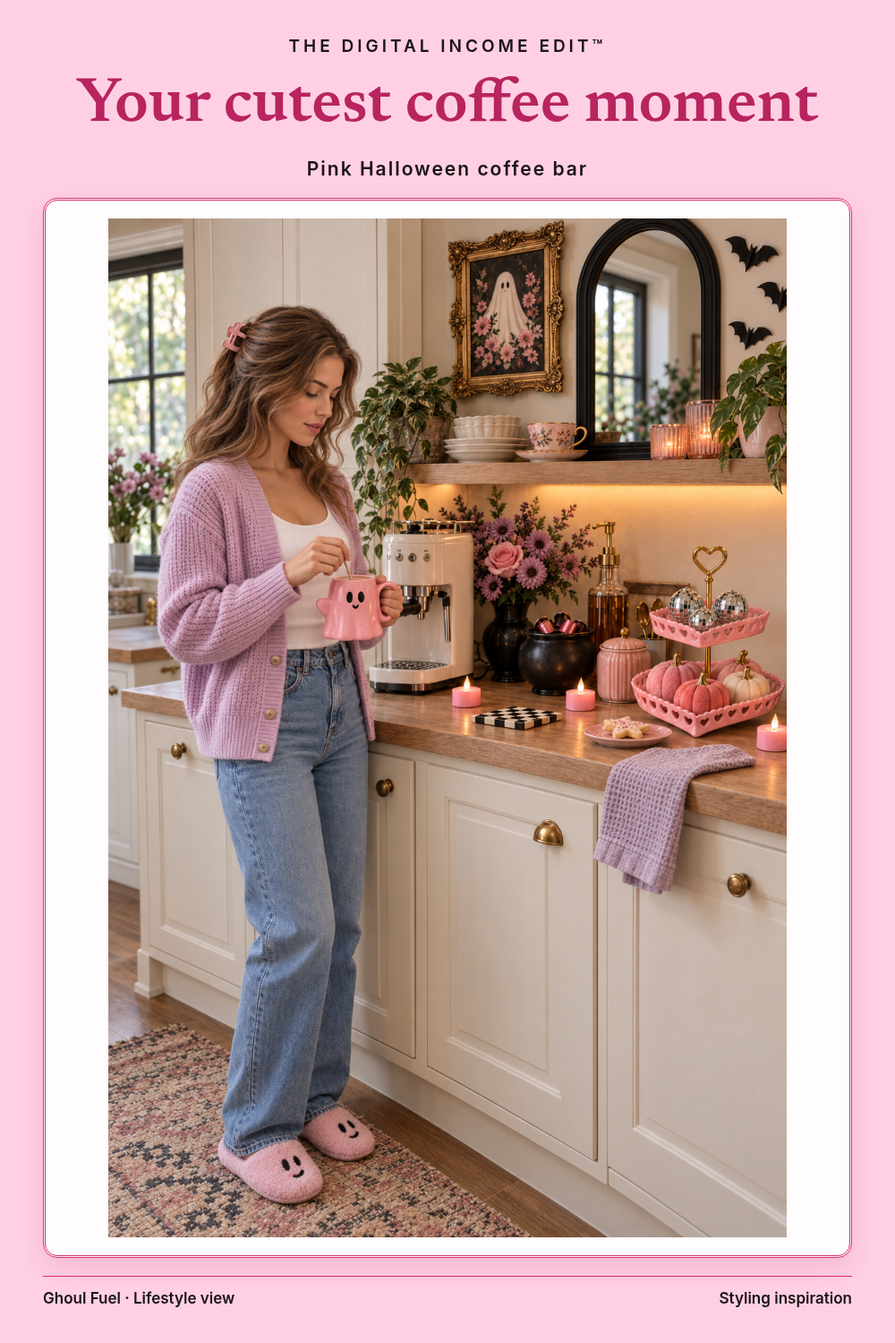
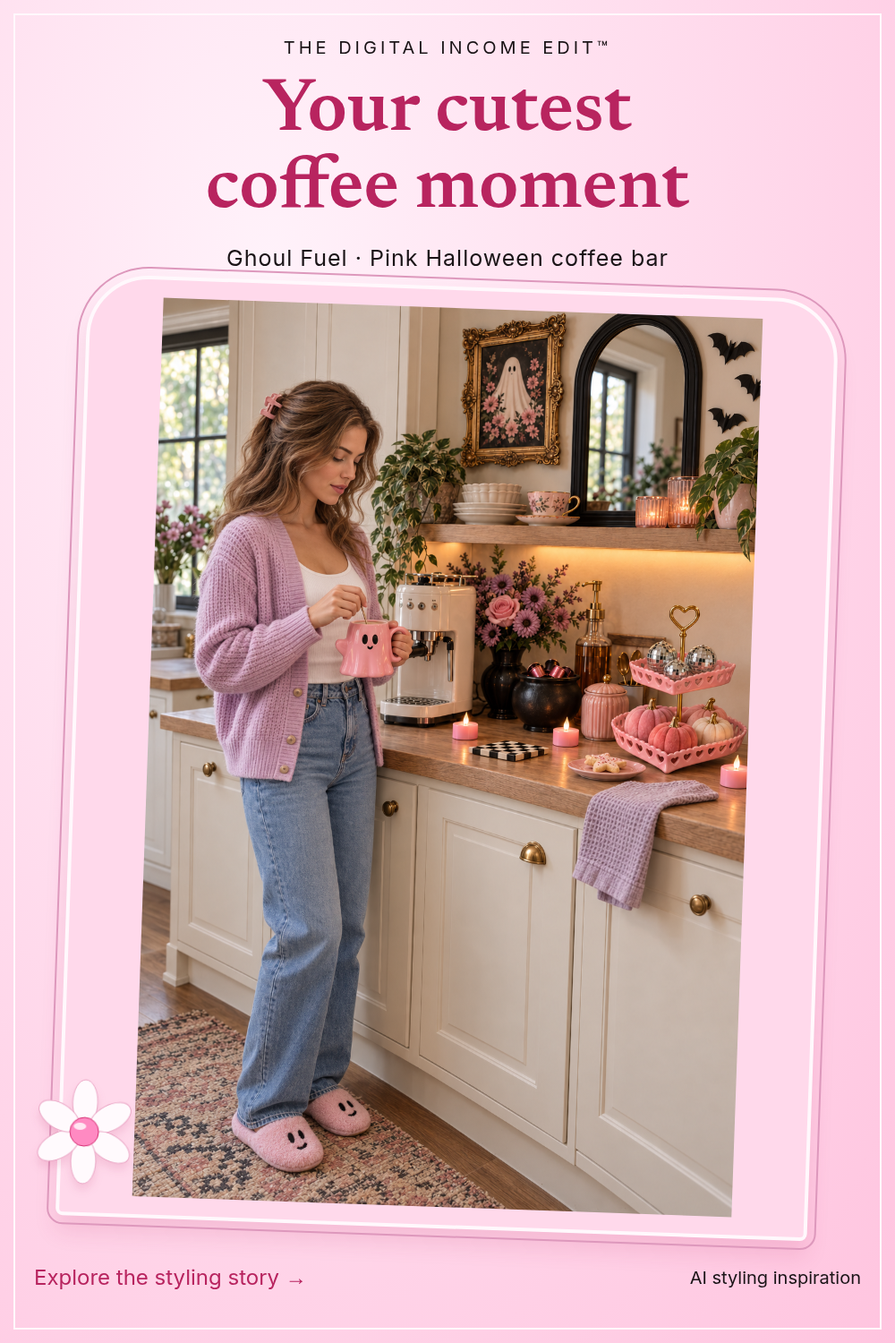
Add boutique WYS masthead and show complete native social previews

diff --git a/src/styles/wys-reference.css b/src/styles/wys-reference.css
@@ -38,3 +38,37 @@
 /* Actual output shelves remain readable: three files per row, grouped by format. */
 .wx-packages{background:linear-gradient(120deg,#f0e1fb,#ffe5f1)}.wx-package:not(.wx-package-tour){background:#fff8fc;border:5px double #e1a0c0;outline:0;border-radius:5px 36px 5px 5px;padding:30px;box-shadow:0 12px 30px #b8245f15}.wx-package-lav:not(.wx-package-tour){border-color:#bd9cd8;border-radius:36px 5px 5px 5px}.wx-contact{grid-template-columns:repeat(3,minmax(0,1fr));gap:24px;max-width:940px;margin-inline:auto}.wx-mini{padding:12px 12px 0;border:1px solid #d99abb!important;box-shadow:0 7px 18px #b8245f12}.wx-mini img{border:4px solid #fff8fc}.wx-mini figcaption{font-size:14px;padding:15px 2px}.wx-mini figcaption b{font-size:11px;letter-spacing:.07em;margin-bottom:4px}.wb-photo-file{border-radius:70px 70px 4px 4px!important}.wb-pin-file{transform:none;border:5px double #c59fda!important;padding:8px 8px 0}.wb-slide-file{transform:none;border-radius:4px 28px 4px 4px!important}.wx-tabs button{font-size:13px;padding:12px 18px}.wx-package-heading p,.wx-output-label p{font-size:16px;line-height:1.7}.wx-package-status{font-size:12px}.wx-paper-strip p{font-size:16px}.wx-mini.mat-1{border-color:#bf9bd9!important}.wx-package:not(.wx-package-tour) .wx-folder-tab{top:-32px;left:-5px;font-size:11px}
 @media(max-width:700px){.wx-contact{gap:14px 8px}.wx-mini{padding:5px 5px 0}.wx-mini figcaption{font-size:11px;padding:10px 0}.wx-mini figcaption b{font-size:8px;letter-spacing:0}.wx-mini img{border-width:2px}.wb-pin-file{padding:3px 3px 0;border-width:3px!important}.wb-photo-file{border-radius:35px 35px 4px 4px!important}.wx-package:not(.wx-package-tour){padding:22px 12px;border-width:4px}.wx-tabs button{font-size:12px;padding:10px 8px}.wx-package:not(.wx-package-tour) .wx-folder-tab{font-size:10px;left:-4px}.wx-package-heading p,.wx-output-label p{font-size:15px}}
+
+/* Clearly operable illustrated kit covers, with their purpose visible before opening. */
+.wx-kit-grid{align-items:start}.wx-guide,.wx-guide.guide-1,.wx-guide.guide-2{border:1px solid #cc8eb3;border-radius:5px 30px 5px 5px!important;border-left:1px solid #cc8eb3;background:#fff7fc;box-shadow:0 9px 24px #b8245f15}.wx-guide.guide-1{background:#f9f3ff;border-color:#b797d3;border-radius:30px 5px 5px 5px!important}.wx-guide.guide-2{border:5px double #d696b8;background:#fff7fc;border-radius:5px!important}.wx-guide summary{display:flex;flex-direction:column;padding:18px;min-height:0;gap:0}.wz-guide-visual{position:relative;width:100%;display:flex;flex-direction:column;align-items:center;padding:20px 10px 12px;background:repeating-linear-gradient(90deg,#ffe2f0 0,#ffe2f0 12px,#fff0f7 12px,#fff0f7 24px);border:1px solid #e6aecb;margin-bottom:22px}.guide-1 .wz-guide-visual{background:repeating-linear-gradient(90deg,#e8d6f7 0,#e8d6f7 12px,#f3e8fc 12px,#f3e8fc 24px);border-color:#c8ace0}.guide-2 .wz-guide-visual{background:#ffe6f2;border:4px double #d99abb}.wx-guide .wb-guide-image{position:static;width:180px;height:auto;max-width:82%;border:6px solid #fffafd;outline:1px solid #d397b8;object-fit:contain;box-shadow:0 8px 16px #b8245f20;transform:rotate(-3deg)}.guide-1 .wb-guide-image{transform:rotate(3deg);outline-color:#b897d1}.guide-2 .wb-guide-image{transform:none}.wx-guide .wx-guide-number{position:absolute;z-index:1;left:10px;top:10px;display:grid;place-items:center;width:42px;height:42px;border-radius:50%;background:#fff7fc;border:3px double #d48bb2;color:#b8245f;font:700 12px/1 Inter,sans-serif;padding:0;letter-spacing:0;box-shadow:0 4px 8px #b8245f12}.wz-guide-image-note{font:400 10px/1.5 Inter,sans-serif;color:#1a1417;margin-top:15px;text-align:center}.wx-guide-title{font:600 27px/1.2 Newsreader,Georgia,serif;margin:0 0 14px}.wz-guide-benefit{display:block;font:400 15px/1.7 Inter,sans-serif;color:#1a1417;margin-bottom:22px;min-height:102px}.wx-guide .wx-guide-tag{display:flex;align-items:center;justify-content:space-between;gap:14px;min-height:48px;padding:12px 16px;margin:0;background:#b8245f;color:white;border:0;border-radius:99px;font:600 13px/1.5 Inter,sans-serif;box-shadow:0 5px 12px #b8245f18}.wx-guide-tag b{font:400 24px/1 Inter,sans-serif}.wz-guide-close{display:none}.wx-guide[open] .wz-guide-open{display:none}.wx-guide[open] .wz-guide-close{display:inline}.wx-guide[open] .wx-guide-tag b{transform:rotate(45deg)}.wx-guide summary:hover .wx-guide-tag{background:#a71d55}.wx-guide summary:focus-visible{outline:3px solid #872049;outline-offset:5px}.wx-guide>div{padding-top:22px;font-size:16px}.wz-kit-note{text-align:center;font:400 13px/1.7 Inter,sans-serif;margin:25px 0 0!important;color:#1a1417}
+@media(max-width:700px){.wx-guide summary{padding:18px}.wx-guide-title{font-size:26px}.wz-guide-benefit{min-height:0;font-size:16px}.wz-guide-visual{padding-top:20px}.wx-guide .wb-guide-image{width:180px;max-width:78%}.wx-guide .wx-guide-tag{font-size:14px}}
+
+/* A bound look-planning notebook, distinct from the output galleries and guide covers. */
+.wx-worksheet{grid-template-columns:minmax(0,.7fr) minmax(0,1fr);gap:40px;align-items:center}.wx-worksheet>.wys-photo{transform:rotate(-3deg);border-radius:5px;box-shadow:0 14px 28px #b8245f20}.wx-worksheet-paper{position:relative;background:linear-gradient(100deg,#fffbfd,#fff3fa);border:1px solid #d894b9;border-left:10px solid #d69cbe;border-radius:7px 28px 7px 7px;box-shadow:7px 8px 0 #e9d7f5,0 18px 30px #b8245f16;padding:34px 26px 25px}.wx-worksheet-paper:after{content:'';position:absolute;inset:9px;pointer-events:none;border:1px solid #f2c8dd;border-radius:3px 20px 3px 3px}.wz-notebook-binding{position:absolute;left:24px;right:24px;top:-14px;display:flex;justify-content:space-between;pointer-events:none}.wz-notebook-binding span{width:13px;height:30px;border-radius:7px;background:linear-gradient(90deg,#b799b0,#fff8fc 45%,#d8b4cd 65%,#99718e);border:1px solid #b591aa;box-shadow:2px 3px 3px #87204920}.wz-brief-heading{display:flex;align-items:center;justify-content:space-between;gap:15px;padding-bottom:22px;border-bottom:3px double #dda4c3;margin-bottom:20px}.wx-worksheet .wx-file-label{margin:0 0 13px;padding:7px 12px;background:#ffd2e6;border:1px solid #dc94ba;border-radius:99px;font-size:10px}.wz-brief-heading h3{font:600 29px/1.2 Newsreader,Georgia,serif;margin:0}.wz-brief-flower{width:65px;height:65px;flex-shrink:0}.wx-worksheet dl{display:grid;grid-template-columns:repeat(2,minmax(0,1fr));gap:18px;counter-reset:brief}.wx-worksheet dl>div{position:relative;border:1px solid #e7b3ce;border-radius:3px 16px 3px 3px;padding:19px 15px 15px;background:#ffe6f2;counter-increment:brief}.wx-worksheet dl>div:nth-child(even){background:#f1e7fc;border-color:#d0b6e7;border-radius:16px 3px 3px 3px}.wx-worksheet dt{display:flex;gap:8px;align-items:center;font:600 11px/1.5 Inter,sans-serif;letter-spacing:.02em;color:#872049}.wx-worksheet dt:before{content:counter(brief,decimal-leading-zero);display:grid;place-items:center;flex-shrink:0;width:26px;height:26px;border-radius:50%;background:#fff9fd;border:1px solid #e0a4c3;font:700 9px/1 Inter,sans-serif}.wx-worksheet dd{font:400 15px/1.7 Inter,sans-serif;margin:12px 0 0;color:#1a1417}.wx-checkpoint{position:relative;margin-top:22px;border:4px double #ba9bd5;background:#f0e2fc;border-radius:5px 22px 5px 5px;padding:20px}.wx-checkpoint b{font:600 16px/1.5 Inter,sans-serif;color:#872049}.wx-checkpoint p{font-size:15px;line-height:1.7}
+@media(max-width:700px){.wx-worksheet{grid-template-columns:1fr;gap:38px}.wx-worksheet>.wys-photo{max-width:290px;transform:rotate(-3deg)}.wx-worksheet-paper{padding:32px 18px 22px;border-left-width:7px;box-shadow:5px 6px 0 #e9d7f5,0 14px 24px #b8245f12;margin-right:5px}.wx-worksheet dl{grid-template-columns:1fr;gap:14px}.wx-worksheet dl>div{padding:16px}.wx-worksheet dd{font-size:16px}.wz-brief-heading h3{font-size:26px}.wz-brief-flower{width:50px;height:50px}.wx-worksheet .wx-file-label{font-size:9px;padding:7px 10px}.wx-checkpoint{padding:18px}.wx-checkpoint p{font-size:16px}}
+
+.wx-tabs{gap:8px}.wx-tabs button{border:1px solid #d795b8;background:#ffe5f1;border-radius:5px 16px 5px 5px;color:#872049;font-size:13px}.wx-tabs button[aria-pressed=true]{background:#b8245f;color:#fff;border-color:#b8245f}.wx-tabs button:hover{box-shadow:0 4px 10px #b8245f15}.wx-tabs button[aria-pressed=true]:hover{background:#a71d55}.wx-tabs button:focus-visible{outline:3px solid #872049;outline-offset:4px}@media(max-width:700px){.wx-tabs button{font-size:12px}}
+
+.wz-article-teaser blockquote{margin:18px 0 22px;padding:16px 20px;border-left:4px solid #d78cb0;background:#fff8fc;font:400 16px/1.75 Inter,sans-serif;color:#1a1417}.wz-article-teaser button.wys-text-link{display:flex;align-items:center;min-height:48px;padding:10px 0;background:transparent;border:0;color:#b8245f;font:600 14px/1.5 Inter,sans-serif;text-decoration:underline;text-underline-offset:4px;cursor:pointer}.wz-article-teaser h3{font-size:27px}.wx-package{scroll-margin-top:110px}
+/* A real carousel presentation: native swiping inside one recognisable post preview. */
+.wx-instagram{display:grid;grid-template-columns:minmax(0,430px) minmax(0,1fr);gap:30px;align-items:start;max-width:940px;margin:auto}.wz-instagram-post{min-width:0;border:8px solid #f7d5e8;outline:1px solid #d696ba;border-radius:22px;background:#fffafd;box-shadow:0 12px 25px #b8245f18;overflow:hidden}.wz-instagram-profile{display:flex;align-items:center;gap:10px;padding:16px 12px;border-bottom:1px solid #f0d6e4;font:600 12px/1.5 Inter,sans-serif;color:#1a1417}.wz-profile-mark{display:grid;place-items:center;flex-shrink:0;width:42px;height:42px;background:linear-gradient(135deg,#f1dcfb,#ffb5d7);border:3px double #bd78a4;border-radius:50%;font:600 10px/1 Inter,sans-serif;color:#872049}.wz-instagram-profile div{min-width:0}.wz-instagram-profile div span{display:block;font-size:11px;font-weight:400;margin-top:3px}.wz-post-menu{margin-left:auto;letter-spacing:2px}.wx-instagram .wx-carousel{padding:0;gap:0;scroll-padding:0;max-width:100%;background:#fff4fa}.wx-instagram .wx-carousel .wx-graphic{flex:0 0 100%;padding:0;border:0;border-radius:0;background:transparent;box-shadow:none}.wx-instagram .wx-graphic>img{border:0;outline:0;width:100%;height:auto}.wx-instagram .wx-carousel figcaption{padding:10px 14px;font-size:12px;background:#fffafd}.wz-instagram-icons{display:flex;align-items:center;gap:15px;padding:12px 16px}.wz-instagram-icons svg{width:23px;height:23px;fill:none;stroke:#1a1417;stroke-width:1.7;stroke-linejoin:round}.wz-instagram-icons .wz-bookmark{margin-left:auto}.wx-instagram .wx-slide-controls{display:flex;gap:12px;margin:0;padding:0 12px 16px}.wx-instagram .wx-slide-controls button{padding:9px 13px;font-size:12px;border-radius:99px;min-height:48px}.wx-instagram .wx-caption{margin:0;padding:24px;background:#f4e9fc;border:5px double #c3a0dc;border-radius:5px 28px 5px 5px}.wx-instagram .wx-caption h4{font:600 28px/1.3 Newsreader,Georgia,serif;margin:14px 0}.wx-instagram .wx-caption p{font:400 16px/1.75 Inter,sans-serif;margin:0 0 22px;color:#1a1417}.wz-slide-downloads{display:flex;flex-direction:column;margin-top:22px;border-top:1px solid #cdb0e0;padding-top:20px}.wz-slide-downloads a{display:flex;align-items:center;min-height:48px;color:#b8245f;font:600 14px/1.5 Inter,sans-serif;text-decoration:underline;text-underline-offset:4px}.wz-overview-instagram{padding:28px 0;margin-top:30px;border-top:3px double #dfa1c1}.wz-overview-instagram>h3{margin-bottom:24px}.wz-pin-download{font-size:13px;padding:12px 16px;margin:15px 0}.wz-live-article{display:flex;align-items:center;min-height:48px;margin-top:12px}.wx-contact{margin-bottom:28px}
+@media(max-width:700px){.wx-instagram{grid-template-columns:1fr;gap:24px}.wz-instagram-post{max-width:430px;width:100%;margin:auto;border-width:6px}.wx-instagram .wx-caption{padding:22px 16px}.wx-instagram .wx-slide-controls{gap:10px;justify-content:space-between}.wx-instagram .wx-slide-controls button{padding:9px 12px;font-size:11px}.wx-instagram .wx-caption h4{font-size:26px}.wz-instagram-profile{padding:14px 10px;font-size:11px}.wx-instagram .wx-caption .wys-button{font-size:13px;width:100%;text-align:center}}
+
+.wx-mini figcaption h4{font:600 17px/1.5 Inter,sans-serif;margin:12px 0}.wx-mini figcaption p{font:400 14px/1.75 Inter,sans-serif;margin:12px 0;color:#1a1417}.wx-mini figcaption .wys-label{font-size:10px}.wx-mini .wz-pin-download{font-size:12px;padding:10px 13px}.wx-mini .wz-live-article{font-size:12px}@media(max-width:700px){.wx-contact{grid-template-columns:1fr}.wx-mini{max-width:430px;width:100%;margin:auto;padding:12px 12px 0}.wx-mini figcaption{font-size:14px;padding:15px 3px}.wx-mini figcaption b{font-size:11px}.wx-mini figcaption p{font-size:16px}.wx-mini figcaption h4{font-size:17px}.wx-instagram .wx-slide-controls{display:grid;grid-template-columns:minmax(0,1fr) auto minmax(0,1fr);gap:7px;padding-inline:10px}.wx-instagram .wx-slide-controls button{min-width:0;padding:9px 8px}.wx-instagram [data-slide-count]{white-space:nowrap}}
+/* Pinterest detail-screen mockups show the graphic and actual posting copy together. */
+.wz-pinterest-set{display:grid;gap:32px}.wz-pinterest-mockup{min-width:0;background:#fff;border:8px solid #eddcf7;outline:1px solid #bd9bd7;border-radius:22px;box-shadow:0 12px 25px #b8245f15;overflow:hidden}.wz-pinterest-mockup:nth-child(even){border-color:#f8d8e8;outline-color:#d997b9}.wz-pinterest-brand{display:flex;align-items:center;gap:8px;padding:15px 18px;border-bottom:1px solid #eee4eb;font:600 14px/1.5 Inter,sans-serif;color:#1a1417}.wz-pinterest-brand>span:last-child{margin-left:auto;font-size:12px;font-weight:400}.wz-pinterest-mark{display:grid;place-items:center;width:25px;height:25px;border-radius:50%;background:#e60023;color:#fff;font:600 19px/1 Newsreader,Georgia,serif}.wz-pinterest-detail{display:grid;grid-template-columns:minmax(0,.9fr) minmax(0,1fr);align-items:start}.wz-pinterest-image{min-width:0;background:#fff3f9;padding:12px;border-right:1px solid #f0d7e3}.wz-pinterest-image img{display:block;width:100%;height:auto;box-shadow:0 5px 12px #b8245f12}.wz-pinterest-copy{min-width:0;padding:20px 24px;color:#1a1417}.wz-pinterest-toolbar{display:flex;align-items:center;justify-content:space-between;gap:18px;margin-bottom:24px}.wz-pinterest-icons{display:flex;align-items:center;gap:17px}.wz-pinterest-icons svg{width:23px;height:23px;fill:none;stroke:#1a1417;stroke-width:1.8;stroke-linejoin:round}.wz-pinterest-icons span{font:700 19px/1 Inter,sans-serif;letter-spacing:2px}.wz-pinterest-save{border-radius:99px;background:#e60023;color:#fff;font:600 15px/1.5 Inter,sans-serif;padding:13px 21px}.wz-pinterest-creator{display:flex;align-items:center;gap:9px;font:600 12px/1.5 Inter,sans-serif;margin-bottom:18px}.wz-pinterest-creator .wz-profile-mark{width:33px;height:33px;font-size:8px}.wz-pinterest-copy h4{font:600 23px/1.35 Inter,sans-serif!important;letter-spacing:0;margin:0 0 23px!important;color:#1a1417}.wz-pin-field{display:block;font:600 14px/1.5 Inter,sans-serif;margin:19px 0 9px}.wz-pinterest-copy p{font:400 15px/1.7 Inter,sans-serif!important;color:#1a1417;margin:0 0 18px}.wz-pin-destination{display:flex;flex-wrap:wrap;align-items:center;gap:7px;min-height:48px;padding:12px 16px;background:#fff0f8;border:1px solid #e3acc8;border-radius:99px;color:#b8245f;font:600 12px/1.5 Inter,sans-serif;overflow-wrap:anywhere}.wz-pin-destination>span:last-child{flex-basis:100%;font-weight:400}.wz-pinterest-copy .wys-button{margin-top:8px;font-size:12px;padding:12px 16px;max-width:100%}.wz-pinterest-comment{margin-top:24px;display:flex;justify-content:space-between;gap:20px;align-items:center;min-height:45px;padding:10px 16px;border:1px solid #d5c9d0;border-radius:99px;font:400 13px/1.5 Inter,sans-serif;color:#60545b}.wz-overview-pinterest{margin-top:28px;padding-top:28px;border-top:3px double #dfa1c1}.wz-overview-pinterest>h3{margin-bottom:24px}
+@media(max-width:700px){.wz-pinterest-mockup{border-width:6px;border-radius:18px}.wz-pinterest-detail{grid-template-columns:1fr}.wz-pinterest-image{padding:10px;border-right:0;border-bottom:1px solid #f0d7e3}.wz-pinterest-copy{padding:20px 16px}.wz-pinterest-copy h4{font-size:21px!important}.wz-pinterest-copy p{font-size:16px!important}.wz-pinterest-brand{padding:13px 12px;font-size:12px}.wz-pinterest-brand>span:last-child{font-size:10px}.wz-pinterest-toolbar{margin-bottom:20px;gap:12px}.wz-pinterest-icons{gap:14px}.wz-pinterest-save{font-size:13px;padding:12px 18px}.wz-pinterest-copy .wys-button{font-size:12px;width:100%;text-align:center}.wz-pinterest-set{gap:26px}}
+
+.wz-article-teaser{grid-template-columns:minmax(0,.65fr) minmax(0,1.35fr);align-items:center;border:6px double #d797b9;border-radius:5px 45px 5px 5px;background:radial-gradient(ellipse at 85% 10%,#fff9fd,#ffe3f0)}.wz-article-teaser>.wys-photo{margin:0;max-width:300px;transform:rotate(-3deg);box-shadow:0 12px 22px #b8245f18}.wz-article-teaser h3{font:600 34px/1.2 Newsreader,Georgia,serif;color:#1a1417;margin:15px 0}.wz-article-teaser blockquote{background:transparent;border-left:3px solid #d696b7;padding:8px 0 8px 20px;margin:18px 0 23px;font-size:16px}.wz-article-teaser .wys-label{font-size:11px}.wz-article-teaser .wz-live-article{font-size:14px}@media(max-width:700px){.wz-article-teaser{grid-template-columns:1fr;border-radius:5px 30px 5px 5px;padding:24px 16px}.wz-article-teaser>.wys-photo{max-width:250px;margin:auto}.wz-article-teaser h3{font-size:28px}.wz-article-teaser blockquote{padding-left:16px}}
+
+/* Both looks, all six approved photographs, scattered around the central title. */
+.wz-hero-two-looks{grid-template-columns:minmax(0,1fr) minmax(0,1.65fr) minmax(0,1fr);gap:35px;padding-block:35px 45px}.wz-polaroid-stack{position:relative;min-width:0;height:590px;align-self:center}.wz-stack-label{position:absolute;top:0;left:0;right:0;text-align:center;font:600 20px/1.3 Newsreader,Georgia,serif;color:#b8245f}.wz-polaroid{position:absolute;margin:0;padding:7px 7px 0;background:#fffafd;border:1px solid #dc95b9;box-shadow:0 10px 20px #b8245f20;min-width:0}.wz-polaroid-mat{padding:5px;background:#ffd2e5;border:1px solid #e5a9c5}.wz-polaroid img{display:block;width:100%;height:auto;border:3px solid #fff8fc}.wz-polaroid figcaption{padding:11px 2px;font:600 10px/1.4 Inter,sans-serif;color:#872049;text-align:center}.wz-stack-lavender .wz-polaroid{border-color:#b393d0;background:#fcf7ff}.wz-stack-lavender .wz-polaroid-mat{background:#e6d1f6;border-color:#bda0d7}.wz-polaroid-0{width:47%;left:0;top:90px;transform:rotate(-9deg);z-index:1}.wz-polaroid-1{width:47%;right:0;top:45px;transform:rotate(8deg);z-index:2}.wz-polaroid-2{width:77%;left:12%;top:295px;transform:rotate(-4deg);z-index:3}.wz-stack-lavender .wz-polaroid-0{transform:rotate(8deg);top:50px}.wz-stack-lavender .wz-polaroid-1{transform:rotate(-7deg);top:90px}.wz-stack-lavender .wz-polaroid-2{transform:rotate(5deg)}.wz-stack-flower{position:absolute;left:-20px;top:270px;width:78px;height:78px;z-index:4}.wz-stack-bow{position:absolute;width:88px;right:-12px;top:285px;filter:drop-shadow(0 5px 4px #b8245f20);z-index:4}
+@media(max-width:1000px){.wz-hero-two-looks{gap:25px;grid-template-columns:minmax(0,1fr) minmax(0,1.8fr) minmax(0,1fr)}.wz-polaroid-stack{height:520px}.wz-polaroid-2{top:265px}.wz-stack-label{font-size:18px}.wz-stack-flower{top:240px;width:65px;height:65px}.wz-stack-bow{top:245px;width:72px}.wz-polaroid figcaption{font-size:9px;padding:9px 0}}
+@media(max-width:700px){.wz-hero-two-looks{grid-template-columns:repeat(2,minmax(0,1fr));gap:25px 18px;padding-block:25px 35px}.wz-polaroid-stack{order:2;height:385px}.wz-stack-label{font-size:17px}.wz-polaroid{padding:5px 5px 0}.wz-polaroid-mat{padding:3px}.wz-polaroid img{border-width:2px}.wz-polaroid-0{top:67px;width:47%}.wz-polaroid-1{top:37px;width:47%}.wz-polaroid-2{top:185px;width:82%;left:9%}.wz-stack-lavender .wz-polaroid-0{top:37px}.wz-stack-lavender .wz-polaroid-1{top:67px}.wz-stack-flower{left:-9px;top:169px;width:45px;height:45px}.wz-stack-bow{right:-9px;top:170px;width:54px}.wz-polaroid figcaption{font-size:8px;padding:8px 0}.wz-hero-copy>*{grid-column:1/-1}.wz-hero-copy>h1{order:1}.wz-hero-copy>.wys-lede{order:3}}
+@media(max-width:360px){.wz-polaroid-stack{height:335px}.wz-polaroid-2{top:168px}.wz-polaroid-0{top:57px}.wz-polaroid-1{top:37px}.wz-stack-lavender .wz-polaroid-1{top:57px}.wz-stack-flower{top:150px;width:39px;height:39px}.wz-stack-bow{top:150px;width:45px}.wz-polaroid figcaption{font-size:7px}.wz-stack-label{font-size:16px}}
+/* Reserve the entire scattered-photo silhouette so it never runs into the copy. */
+.wz-polaroid-stack{height:680px}@media(max-width:1000px){.wz-polaroid-stack{height:600px}}@media(max-width:700px){.wz-polaroid-stack{height:450px}}@media(max-width:360px){.wz-polaroid-stack{height:390px}}
+
+/* Four distinct collection treatments; one obvious action per linked card. */
+.wb-category{display:flex;flex-direction:column;align-items:center;padding-bottom:20px}.wb-category-photo{width:100%}.wb-category>p{flex:1}.wb-category .wz-category-action{display:flex;justify-content:center;align-items:center;gap:9px;min-height:48px;padding:11px 15px;margin-top:12px;background:#b8245f;color:#fff;border:1px solid #a72054;border-radius:99px;font:600 12px/1.5 Inter,sans-serif;text-decoration:none;box-shadow:0 3px 0 #86224b}.wb-category .wz-category-action b{font-size:16px;text-decoration:none;border:0}.wb-category-3{background:repeating-linear-gradient(90deg,#ffdaeb 0,#ffdaeb 11px,#fff0f7 11px,#fff0f7 22px);border:1px solid #d696b6;border-radius:3px 32px 3px 3px;box-shadow:6px 6px 0 #eab1d0,0 12px 20px #b8245f18}.wb-category-3 .wb-category-photo{transform:rotate(-3deg);background:#fffafd;padding:8px;border:1px solid #e3afc9;box-shadow:0 6px 12px #b8245f20}.wb-category-3 h3,.wb-category-3>p{background:#fff5fa;padding:6px 9px}.wx-panel{scroll-margin-top:25px}.wb-category:focus-visible{outline:3px solid #872049;outline-offset:7px}
+@media(max-width:700px){.wb-category .wz-category-action{font-size:11px;padding:10px 8px}.wb-category-3{box-shadow:4px 4px 0 #eab1d0}.wb-category-3 h3{padding:5px}.wb-category-3>p{padding:6px}}

diff --git a/src/data/wys-packages.js b/src/data/wys-packages.js
@@ -14,19 +14,20 @@ const descriptions=[
  'Give your coffee corner a little Halloween mood with a pink ghost mug, a two-tier heart stand and small pumpkins. Silver mirror balls and LED tea lights finish the scene without taking over the counter. Flowers, wall art and furniture are styling extras, separate from the five selected product types. Open the full article for the placement notes and each recorded variant. AI-generated styling inspiration. #ad As an Amazon Influencer I earn from qualifying purchases.',
  'An everyday coffee moment, with a little pink Halloween around it. Tommy Kate stirs one ghost mug beside the styled coffee nook, seen from a fresh viewpoint. A heart stand, small pumpkins, mirror balls and LED tea lights make up the selected finds; her clothing and the other room details are styling extras. Read the coffee-bar article for the product notes and complete styling sequence. AI-generated styling inspiration. #ad As an Amazon Influencer I earn from qualifying purchases.']
 ];
-const pinAlts=["Hot-pink pumpkins, pink gauze, small jack-o-lantern lights, black bat shapes and LED tea lights on a dark tabletop. A pink TDIE frame and typeset headline surround the photograph.", "A console with hot-pink pumpkins, pink gauze and lights below an oval mirror, with black bats on the wall. A lavender TDIE mat holds a headline above the styling photograph.", "From the porch, Tommy Kate answers the open front door with a candy cauldron, the pink Halloween console behind her. A pink TDIE frame surrounds the lifestyle photograph.", "Overhead view of a pink ghost mug, heart stand, velvet pumpkins, silver mirror balls and LED tea lights on a dark surface. A pink TDIE mat carries the typeset headline.", "A pink Halloween coffee nook with a ghost mug, two-tier heart stand, small pumpkins and silver mirror balls. A lavender TDIE mat frames the unchanged styling photograph.", "Tommy Kate in a lavender cardigan stirs one pink ghost mug beside the styled Halloween coffee counter. A pink TDIE frame carries a headline above the lifestyle photograph."];
+const pinAlts=["Hot-pink pumpkins, pink gauze, small jack-o-lantern lights, black bat shapes and LED tea lights on a dark tabletop. A pink TDIE frame and typeset headline surround the photograph.", "A pink Halloween console with pumpkins, gauze and lights below an oval mirror, and black bats on the wall. A lavender arched frame surrounds the photo; the headline sits below.", "From the porch, Tommy Kate answers the open front door with a candy cauldron, the pink Halloween console behind her. A pink TDIE frame surrounds the lifestyle photograph.", "Overhead view of a pink ghost mug, heart stand, velvet pumpkins, silver mirror balls and LED tea lights on a dark surface. A pink TDIE mat carries the typeset headline.", "A pink Halloween coffee nook with a ghost mug, two-tier heart stand, small pumpkins and silver mirror balls. A lavender TDIE mat frames the unchanged styling photograph.", "Tommy Kate in a lavender cardigan stirs one pink ghost mug beside the styled Halloween coffee counter. A pink TDIE frame carries a headline above the lifestyle photograph."];
 export const packages=examples.map((e,i)=>({...e,article:i?coffee:entry,
  pins:e.photos.map((p,n)=>({src:graphics[`../assets/wys/examples/${e.slug}-pin-${n+1}.png`],role:p.role,title:titles[i][n],description:descriptions[i][n],alt:pinAlts[i*3+n],destination:`/lifestyle/${e.slug}`})),
  slides:e.photos.map((p,n)=>({src:graphics[`../assets/wys/examples/${e.slug}-instagram-${n+1}.png`],role:p.role,alt:`${e.name}, Instagram slide ${n+1} of 3. ${p.alt}.`})),
- caption:i?'A little ghoul fuel for your coffee corner. Start with the five selected finds, see the styled counter, then swipe to the everyday coffee moment. The ghost mug, heart stand, velvet pumpkins, mirror balls and LED tea lights are the selected pieces. Flowers, furniture and clothing are styling extras. The styling article is ready to read; shopping destinations are pending. AI-generated styling inspiration. #ad As an Amazon Influencer I earn from qualifying purchases. Find the styling article through the link in bio.':'A little pink, a little spooky, a whole Halloween welcome. Swipe from the selected pieces to the styled console and the view from the porch. Plain hot-pink pumpkins, pink gauze, jack-o-lantern lights, black bats and LED tea lights make up this look. Flowers, furniture, artwork, clothing and the candy cauldron are styling extras. The styling article is ready to read; shopping destinations are pending. AI-generated styling inspiration. #ad As an Amazon Influencer I earn from qualifying purchases. Find the styling article through the link in bio.'
+ caption:i?'A little ghoul fuel for your coffee corner. Start with the five selected finds, see the styled counter, then swipe to the everyday coffee moment. The ghost mug, heart stand, velvet pumpkins, mirror balls and LED tea lights are the selected pieces. Flowers, furniture and clothing are styling extras. See the styling article for all three views and the selected-product notes. AI-generated styling inspiration. #ad As an Amazon Influencer I earn from qualifying purchases. Find the styling article through the link in bio.':'A little pink, a little spooky, a whole Halloween welcome. Swipe from the selected pieces to the styled console and the view from the porch. Plain hot-pink pumpkins, pink gauze, jack-o-lantern lights, black bats and LED tea lights make up this look. Flowers, furniture, artwork, clothing and the candy cauldron are styling extras. See the styling article for all three views and the selected-product notes. AI-generated styling inspiration. #ad As an Amazon Influencer I earn from qualifying purchases. Find the styling article through the link in bio.'
 }));
 export const faqs=[
- ['What does WYS actually do?','It organizes a repeatable storefront-content workflow: define a themed look, record the selected products, prepare three different styling photographs, turn them into Pinterest and Instagram graphics, write the article and channel copy, then check the destinations before publishing. The examples here show the content outputs. They are not a claim that a customer’s automation is already connected.'],
- ['What would I receive?','The planned customer kit brings together the Preparation Guide, Setup Guide, themed-look recipe, recurring task prompts and destination-path guidance. The two complete packages on Look Inside illustrate what the workflow prepares. They are worked examples, not the final customer download or access to the founder’s accounts. Customer delivery remains on hold.'],
- ['Do I need an Amazon Influencer storefront?','There are different paths. An Influencer account can use eligible Idea Lists. An Associates-only setup uses your own approved website destination. Your actual account access determines the route; WYS does not grant Amazon approval or supply someone else’s storefront.'],
- ['Do I need a website, an AI persona or a paid membership?','A website is needed for the Associates-only owned-page path. A persona is optional, so you can choose a no-person look. The Brand Closet path is optional and requires your own authorized membership and lesson access. Neither a persona nor that membership is a universal requirement.'],
- ['Does it run automatically while I sleep?','The kit is designed for manual and mixed workflows, with automation only where your tools, account permissions and tested setup support it. Connected tasks need successful tests, saved checkpoints and a clear approval policy before running. These prepared examples do not prove an unattended end-to-end customer run.'],
- ['Are there other tools or costs?','Your chosen AI tools, image provider, website and publishing services may have their own charges or usage limits. Setup records the tools you actually have, supported connections and an authorized spending limit. No universal tool subscription or zero-cost promise is implied.'],
- ['Can I change the theme or keep control of publishing?','Yes: the workflow starts with your chosen theme, category, source products and channels. A manual or mixed path lets you review and carry out the steps yourself. Automatic publishing depends on your explicit policy and a tested supported route; missing destinations stay pending.'],
- ['Can I buy it now?','The customer product is on hold, so checkout and delivery are closed. You can inspect both complete examples now and join the existing Weekly Edit for TDIE updates. Newsletter signup is not a product order, reserved place or promised release date.']
+ ['What does WYS help me create?','Start with one shopping idea and its selected Amazon products. The planned WYS guides and prompts take you through styling images, a full blog article, Pinterest graphics and copy, and an Instagram carousel and caption. You have a process to follow for the next idea, instead of planning every channel separately. Explore the two complete examples to see those results.'],
+ ['What is in the customer kit?','The planned kit includes a Preparation Guide, Setup Guide, look-building instructions, recurring-task prompts and destination guidance. These help you choose your tools and budget, record your preferences, build content and check where it sends readers. The kit is still being finalized; checkout and customer delivery are closed.'],
+ ['Do I need an Amazon Influencer storefront?','The planned workflow includes both Influencer and Associates-only paths. Your Amazon account access determines the destination you can use. WYS does not provide Amazon approval. An eligible Influencer route can use Idea Lists; an Associates-only route needs your own approved website page.'],
+ ['Do I need an AI persona or Brand Closet membership?','An AI persona is optional. You can create content without a person in the images. The Brand Closet path is also optional and requires your own authorized membership and lesson access. Choose the options that fit the business you want to build.'],
+ ['Does everything happen automatically?','You can work manually, use a mix of manual and automated steps, or use supported automation after your setup has been tested. Automation depends on your tools, permissions and connections. Universal unattended publishing is not promised. You choose your budget and how much review you want to keep.'],
+ ['Are there other costs?','Your selected AI tools, image generation, website and publishing services may have separate charges. Your budget is part of the setup. You can handle more steps yourself to control tool usage. WYS does not include those third-party subscriptions.'],
+ ['Are the images exact product photographs?','No. They are AI-generated styling illustrations. Actual retailer photographs, measurements and product details must be checked. Flowers, furniture, artwork, clothing and other props can be styling extras, separate from the selected products.'],
+ ['Can I use it for different shopping ideas?','The workflow starts with your theme, product category, selected finds and channels. Change those inputs for an outfit, seasonal table, dorm-room refresh or another shopping idea, then follow the same process. Your setup choices give each new idea a clearer starting point.'],
+ ['Can I buy WYS now?','The customer kit is still being finalized, and checkout is closed. You can explore the complete examples now and join The Weekly Edit for TDIE updates. Newsletter signup does not reserve a WYS place or place an order.']
 ];

diff --git a/src/data/wys.js b/src/data/wys.js
@@ -23,8 +23,8 @@ export const examples = [
 export const imageNotice='AI-generated styling inspiration. Retail products may differ; check the actual listing photographs, contents and measurements. Flowers, furniture, artwork, clothing and other props are styling extras.';
 export const contents=[
  {n:'01',title:'Preparation Guide',text:'Work through the account requirements and choose the path that fits your setup.'},
- {n:'02',title:'Setup Guide',text:'A guided setup prompt records your choices, available connections and account-specific blockers.'},
- {n:'03',title:'Themed look recipe',text:'The sourcing, three-image preparation and review sequence for your chosen theme and season.'},
+ {n:'02',title:'Setup Guide',text:'Record your business choices, connect the tools you have and see which setup steps still need attention.'},
+ {n:'03',title:'Themed look recipe',text:'Follow the selected products through three styling views, an article and social content for your chosen theme and season.'},
  {n:'04',title:'Recurring task prompts',text:'Weekly planning, optional Outfit of the Day, and reconciliation prompts. Tasks stay paused until the required tests pass.'},
  {n:'05',title:'Your destination path',text:'Influencer Idea Lists or an Associates-only page on your own site, according to your actual account access.'},
  {n:'06',title:'Optional Brand Closet path',text:'For customers with the required membership and authorized lesson access. Member-only material stays private.'}

diff --git a/ops/wys/typeset_pin_examples.py b/ops/wys/typeset_pin_examples.py
@@ -1,0 +1,24 @@
+"""Typeset six finished Pin examples from unchanged approved photography."""
+from pathlib import Path
+import base64,html,json,hashlib
+from playwright.sync_api import sync_playwright
+ROOT=Path(__file__).resolve().parents[2]
+OUT=ROOT/'src/assets/wys/examples'
+def uri(p,m='image/png'):return 'data:'+m+';base64,'+base64.b64encode(p.read_bytes()).decode()
+news=uri(ROOT/'node_modules/@fontsource/newsreader/files/newsreader-latin-600-normal.woff2','font/woff2')
+inter=uri(ROOT/'node_modules/@fontsource/inter/files/inter-latin-400-normal.woff2','font/woff2')
+flower='<svg viewBox="0 0 120 120"><g fill="#fffafd" stroke="#eaa6c5">'+''.join(f'<ellipse cx="60" cy="27" rx="14" ry="25" transform="rotate({a} 60 60)"/>' for a in range(0,360,60))+'</g><circle cx="60" cy="60" r="16" fill="#ff8ac2" stroke="#d62e73"/><ellipse cx="55" cy="54" rx="7" ry="4" fill="#ffe6f2"/></svg>'
+records=[]
+with sync_playwright() as p:
+ b=p.chromium.launch(executable_path='/usr/bin/chromium',headless=True,args=['--no-sandbox'])
+ for slug,name,theme in [('pretty-wicked-entryway','Pretty Wicked','entryway'),('ghoul-fuel-coffee-bar','Ghoul Fuel','coffee bar')]:
+  headlines=['Pink Halloween<br>'+theme,('Style a playful<br>pink welcome' if theme=='entryway' else 'A little haunt for<br>your coffee corner'),('Your cutest<br>Halloween welcome' if theme=='entryway' else 'Your cutest<br>coffee moment')]
+  for n,role in enumerate(['basic','styled','lifestyle']):
+   source=ROOT/'src/lifestyle'/f'{slug}-{role}.png'
+   css=f'''@font-face{{font-family:Newsreader;src:url({news});font-weight:600}}@font-face{{font-family:Inter;src:url({inter});font-weight:400}}*{{box-sizing:border-box}}body{{margin:0;width:1000px;height:1500px;padding:38px;color:#1a1417;font-family:Inter;background:#ffe0ee;display:grid;grid-template-rows:32px 220px minmax(0,1fr) 70px;gap:20px;position:relative}}body:before{{content:'';position:absolute;inset:15px;border:2px solid #fff8fc;pointer-events:none}}.brand{{text-align:center;font:400 20px/1.5 Inter;letter-spacing:4px;text-transform:uppercase}}header{{text-align:center;position:relative;display:grid;place-content:center}}h1{{font:600 86px/1.05 Newsreader;margin:0;color:#b8245f}}.sub{{font:400 25px/1.5 Inter;letter-spacing:1px;margin-top:15px}}.photo{{position:relative;padding:20px;display:flex;align-items:center;justify-content:center;background:#fff8fc;border:7px double #d98ab2;box-shadow:0 18px 25px #b8245f20;min-height:0}}img{{display:block;width:100%;height:100%;object-fit:contain}}.flower{{position:absolute;width:120px;height:120px;bottom:-26px;left:18px;filter:drop-shadow(0 7px 5px #b8245f20)}}footer{{display:flex;align-items:center;justify-content:space-between;gap:15px;font:400 20px/1.5 Inter}}footer b{{font-weight:400;color:#b8245f;font-size:24px}}.badge{{position:absolute;right:10px;top:18px;background:#fff8fc;border:5px double #d88db2;border-radius:50%;width:95px;height:95px;display:grid;place-content:center;font:400 18px/1.3 Inter;transform:rotate(10deg)}}.design-0{{background:repeating-linear-gradient(90deg,#ffdeed 0,#ffdeed 20px,#ffedf5 20px,#ffedf5 40px)}}.design-0 header{{background:#fff5fa;border:2px solid #e29bbc;border-radius:8px 60px 8px 8px}}.design-0 h1{{font-size:80px}}.design-1{{background:#eadcf9;grid-template-rows:32px minmax(0,1fr) 230px 70px}}.design-1 header{{grid-row:3;background:#fff8fc;border:5px double #b99bd5;border-radius:8px 60px 8px 8px}}.design-1 .photo{{grid-row:2;background:#f8f1ff;border-color:#b99bd5;border-radius:120px 120px 8px 8px}}.design-1 .flower{{left:auto;right:-15px;bottom:20px}}.design-1 h1{{font-size:78px}}.design-2{{background:radial-gradient(ellipse at 30% 20%,#fff2fa,#ffc4df);grid-template-rows:32px 210px minmax(0,1fr) 70px}}.design-2 .photo{{background:#ffd9eb;border:4px solid #fff8fc;outline:2px solid #dd98bc;outline-offset:8px;transform:rotate(2deg);margin:0 42px;border-radius:70px 70px 8px 8px}}.design-2 h1{{font-size:82px}}.design-2 .flower{{left:-35px;bottom:30px}}'''
+   badge='<span class="badge">5<br>FINDS</span>' if n==0 else ''
+   markup=f'<!doctype html><html lang="en"><style>{css}</style><body class="design-{n}"><div class="brand">The Digital Income Edit™</div><header><h1>{headlines[n]}</h1><div class="sub">{html.escape(name)} · Pink Halloween {theme}</div>{badge}</header><div class="photo"><img src="{uri(source)}"><div class="flower">{flower}</div></div><footer><b>Explore the styling story →</b><span>AI styling inspiration</span></footer></body></html>'
+   page=b.new_page(viewport={'width':1000,'height':1500},device_scale_factor=1);page.set_content(markup);page.evaluate('document.fonts.ready');page.locator('img').evaluate('(e)=>e.decode()');assert page.evaluate('document.documentElement.scrollHeight===1500');target=OUT/f'{slug}-pin-{n+1}.png';page.screenshot(path=str(target));page.close()
+   records.append({'file':target.name,'source':source.name,'sourceSHA256':hashlib.sha256(source.read_bytes()).hexdigest(),'width':1000,'height':1500,'method':'Deterministic native HTML typesetting; approved original source photo unchanged; finished website example Pin','photoRole':role,'overlay':headlines[n].replace('<br>',' ')})
+ b.close()
+p=ROOT/'docs/design/WYS_EXAMPLE_GRAPHICS_2026-10-08.json';previous=json.loads(p.read_text());p.write_text(json.dumps([r for r in previous if '-pin-' not in r['file']]+records,indent=2));print('Six finished 1000 × 1500 Pins created; original photos unchanged')

diff --git a/docs/design/WYS_BOUTIQUE_COMPOSITION_2026-10-08.md b/docs/design/WYS_BOUTIQUE_COMPOSITION_2026-10-08.md
@@ -23,3 +23,21 @@ The prior text-left/photo-collage-right header was not a faithful interpretation
 The shelf follows the retro pink and purple boutique references' larger framed category imagery. The two example stories are separate photographic shop windows with alternate arch and curved frame treatments. Full Look Inside overviews group nine files into three readable rows; they no longer squeeze nine miniature files across a desktop row. The full landing example stays completely visible, with separate pink/lavender output displays rather than one giant rectangular container. Newsletter photography, form border and category cards use the same frame family. All content, actual article records, source photographs, exact output counts and release restrictions remain preserved.
 
 These are specific reference principles, not a claim the completed website is identical to a reference brand or that broader website composition is complete. Compare actual full desktop/mobile captures before further design claims. The changes are WYS-scoped in wys-reference.css and WysHero; there are no new dependencies or generated photographs.
+
+
+## Finished social mockups and reader-facing revision
+
+Both complete examples now show three actual Pinterest detail-screen mockups. Each combines its full graphic, title, description, alt text, creator label, live blog destination and native 1000×1500 PNG download. The save/comment chrome is decorative preview UI, without invented engagement, follower counts or published-board claims. Six distinct finished Pin assets were re-typeset from the unchanged approved photos; ops/wys/typeset_pin_examples.py reproduces them and updates the source-hash provenance record.
+
+WysInstagram presents one native swipeable post per example, with three 1080×1350 slide files, visible previous/next controls and slide count, full caption and a real blog-page link. Instagram/Pinterest content is visible in the default example view, not only separate tabs. WysPackage switches remain available for focused browsing. Every download points to the full-size source asset.
+
+The six kit previews now have distinct illustrated covers, benefits visible before opening, prominent 48px “See what’s included” controls and keyboard-operable open/close states. WysWorksheet is a notebook composition with binding, a named heading, grouped numbered details and a separate checkpoint note. Buyer FAQs and benefit copy explain products, channels, tools, budget and control in plain language.
+
+Removed public production-status footers, automation-run implementation notes, “worked example,” “Pretty outputs,” “the written side,” and vague package descriptions. The actual article excerpt is identified and paired with its own image, full-article control and live blog link. Provenance and engineering verification stay in these handoff notes. Required AI styling, affiliate disclosures and pending product destinations remain where relevant. Checkout, customer delivery, generation and unresolved affiliate/list activation remain held.
+
+
+## Six-photo hero, actual masthead and collection navigation
+
+The shared TDIE SiteNav has a WYS-only boutique variant: centered, two-line Newsreader masthead with a dimensional daisy and separate lavender main-navigation ribbon. The three WYS routes opt into it through PageLayout; other page families keep their existing navigation. The product navigation remains a distinct local row. The hero now displays all three approved photographs for each of the two looks in separate scattered, matted Polaroid groups, with a central headline. Mobile keeps both groups after the headline and before the body copy. Glossy icing remains native SVG.
+
+Removed the hero's release-status sentence and slogan strip. Product access stays held in the actual commerce state and accurate FAQs/newsletter copy. The four output cards now have four distinct treatments, including a striped paper frame for the blog article. Each is a single anchor with an obvious button appearance; down arrows indicate same-page jumps, right arrows indicate another page. Unique output anchors select the correct panel before scrolling, including cross-page links.
